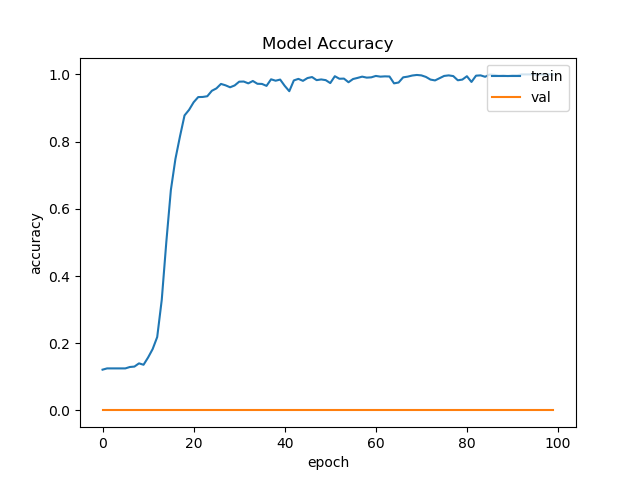
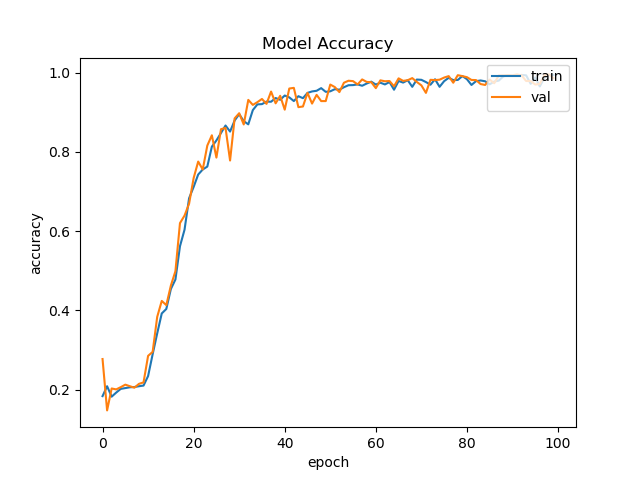
update models

diff --git a/src/utils/models.py b/src/utils/models.py
@@ -1,12 +1,25 @@
 from tensorflow.keras import Sequential
 from tensorflow.keras.layers import Dense, Dropout
 
+def deep_mlp(input_dim, n_classes):
+    model = Sequential()
+    model.add(Dense(1024, input_dim=input_dim, activation='relu'))
+    model.add(Dense(512, activation='relu'))
+    model.add(Dense(256, activation='relu'))
+    model.add(Dense(128, activation='relu'))
+    model.add(Dense(64, activation='relu'))
+    model.add(Dense(32, activation='relu'))
+    model.add(Dense(16, activation='relu'))
+    model.add(Dense(n_classes, activation='softmax'))
+    model.compile(loss='categorical_crossentropy', optimizer='adam', metrics=['accuracy'])
+    return model
+
 def mlp(input_dim, n_classes):
     model = Sequential()
     model.add(Dense(128, input_dim=input_dim, activation='relu'))
     model.add(Dense(64, activation='relu'))
     model.add(Dense(32, activation='relu'))
     model.add(Dense(16, activation='relu'))
-    model.add(Dense(n_classes, activation='sigmoid'))
+    model.add(Dense(n_classes, activation='softmax'))
     model.compile(loss='categorical_crossentropy', optimizer='adam', metrics=['accuracy'])
     return model

diff --git a/src/main/main.py b/src/main/main.py
@@ -36,17 +36,17 @@ def main():
         labels.append(label)
 
     n_classes = len(set(labels))
-    input_dim = features[0].shape
 
     features = np.array(features)
+    # features = pp.padding(features, Param.features_dim)
     labels = to_categorical(labels, dtype ="uint8")
 
     model = arch.mlp(features.shape[1], n_classes)
     model.summary()
     history = model.fit(
-        features,
-        labels,
-        validation_split=Param.val_split,
+        x=features,
+        y=labels,
+        validation_data=(features, labels),
         epochs=Param.epoch,
         batch_size=Param.batch_size,
         verbose=1

diff --git a/src/utils/pre_process.py b/src/utils/pre_process.py
@@ -1,4 +1,5 @@
 from src.config.param import *
+from tensorflow.keras.preprocessing.sequence import pad_sequences
 
 import librosa
 import numpy as np
@@ -24,3 +25,12 @@ def extract_features(signal, sample_rate):
     deltad = np.mean(deltad.T, axis=0)
 
     return np.concatenate((mfccs, delta, deltad), axis=0) 
+    # return mfccs.reshape(-1)
+
+def padding(features, dim):
+    return pad_sequences(
+        features,
+        maxlen=dim,
+        padding='post',
+        truncating='post'
+    )

diff --git a/src/config/param.py b/src/config/param.py
@@ -1,6 +1,7 @@
 class Param():
     window_size = 0.025
     window_stride = 0.015
+    features_dim = 1200
 
     epoch = 100
     val_split = 0.2
